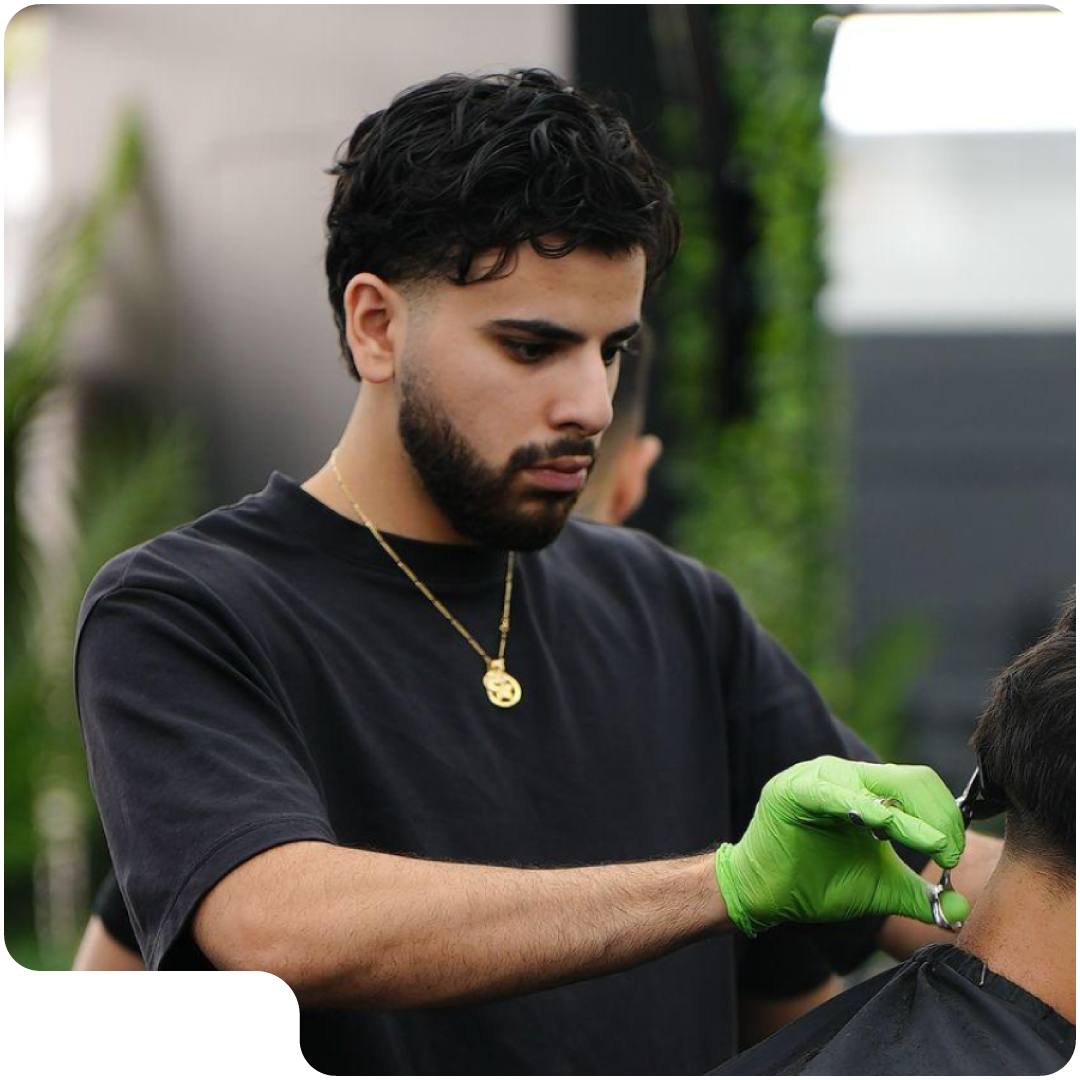
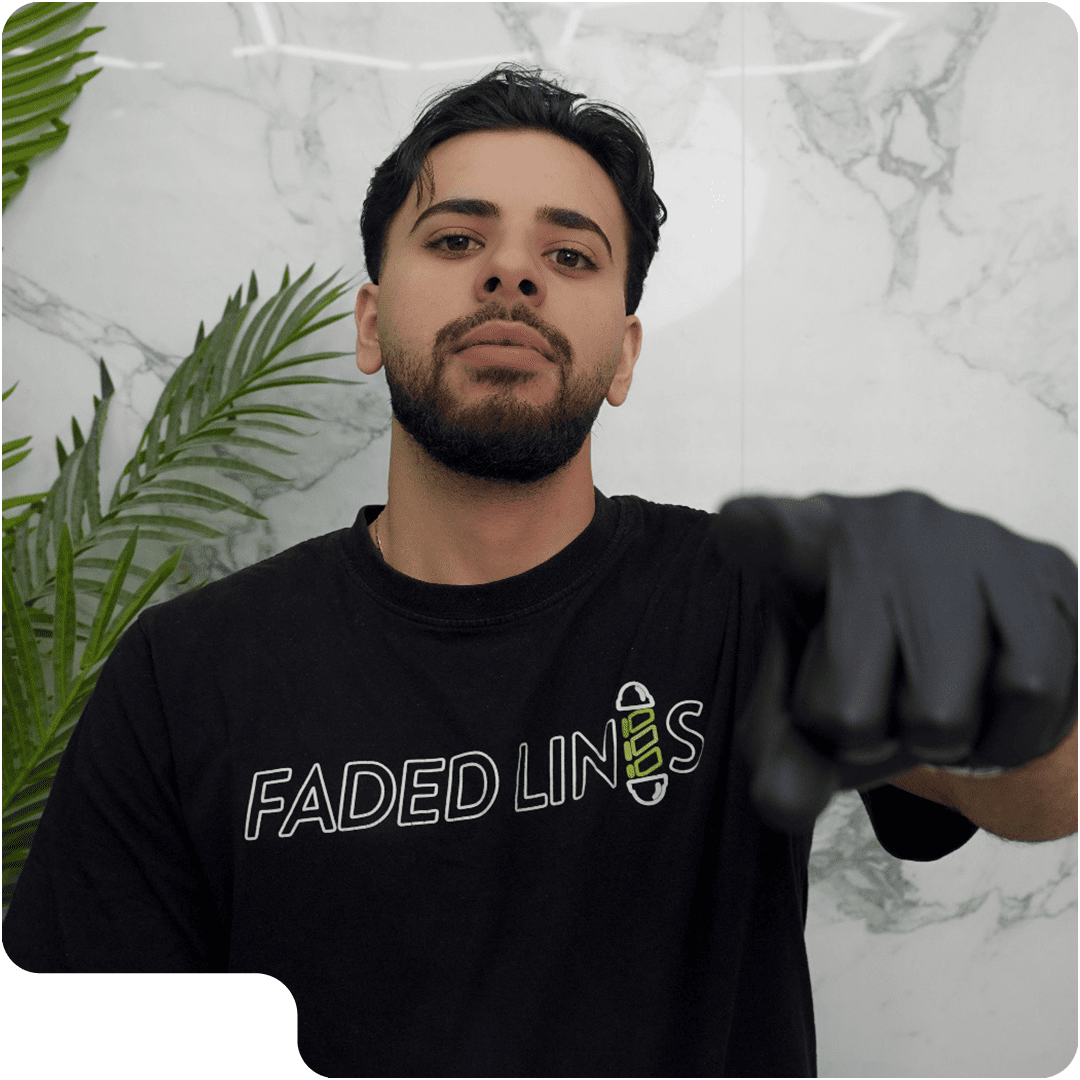
change barber photos amir

diff --git a/src/pages/web/Home.tsx b/src/pages/web/Home.tsx
@@ -17,7 +17,6 @@ import Amir from "@/assets/web/barbers/amir.png";
 import Rayhan from "@/assets/web/barbers/rayhan.png";
 import Jay from "@/assets/web/barbers/jay.png";
 import Emman from "@/assets/web/barbers/emman.png";
-import Josh from "@/assets/web/barbers/josh.png";
 import Niko from "@/assets/web/barbers/niko.png";
 import Noah from "@/assets/web/barbers/noah.png";
 import Lucas from "@/assets/web/barbers/lucas.png";
@@ -28,7 +27,6 @@ import AmirGallery from "@/assets/web/barbers/barbers-gallery/amir.png";
 import RayhanGallery from "@/assets/web/barbers/barbers-gallery/rayhan.png";
 import JayGallery from "@/assets/web/barbers/barbers-gallery/jay.png";
 import EmmanGallery from "@/assets/web/barbers/barbers-gallery/emman.png";
-import JoshGallery from "@/assets/web/barbers/barbers-gallery/josh.png";
 import NikoGallery from "@/assets/web/barbers/barbers-gallery/niko.png";
 import NoahGallery from "@/assets/web/barbers/barbers-gallery/noah.png";
 import LucasGallery from "@/assets/web/barbers/barbers-gallery/lucas.png";
@@ -43,8 +41,6 @@ import CanCTA from "@/assets/web/barbers/cta-button/can.svg";
 import CanCTAHover from "@/assets/web/barbers/cta-button/can-hover.svg";
 import RayhanCTA from "@/assets/web/barbers/cta-button/rayhan.svg";
 import RayhanCTAHover from "@/assets/web/barbers/cta-button/rayhan-hover.svg";
-import JoshCTA from "@/assets/web/barbers/cta-button/josh.svg";
-import JoshCTAHover from "@/assets/web/barbers/cta-button/josh-hover.svg";
 import NoahCTA from "@/assets/web/barbers/cta-button/noah.svg";
 import NoahCTAHover from "@/assets/web/barbers/cta-button/noah-hover.svg";
 import JayCTA from "@/assets/web/barbers/cta-button/jay.svg";
@@ -220,12 +216,6 @@ export default function Home() {
       landing: true,
     },
     {
-      svg: Josh,
-      thumbnail: JoshGallery,
-      link: generateRoute("/josh"),
-      landing: true,
-    },
-    {
       svg: Emman,
       thumbnail: EmmanGallery,
       link: generateRoute("/emman"),
@@ -247,9 +237,8 @@ export default function Home() {
     { normal: RayhanCTA, hover: RayhanCTAHover },  // 3: Rayhan
     { normal: JayCTA, hover: JayCTAHover },        // 4: Jay
     { normal: AmirCTA, hover: AmirCTAHover },      // 5: Amir
-    { normal: JoshCTA, hover: JoshCTAHover },      // 6: Josh
-    { normal: EmmanCTA, hover: EmmanCTAHover },    // 7: Emman
-    { normal: NikoCTA, hover: NikoCTAHover },      // 8: Niko
+    { normal: EmmanCTA, hover: EmmanCTAHover },    // 6: Emman
+    { normal: NikoCTA, hover: NikoCTAHover },      // 7: Niko
   ];
 
   // Transform barberSvgs into gallery-friendly format

diff --git a/src/components/book/BookList.tsx b/src/components/book/BookList.tsx
@@ -19,10 +19,9 @@ import Jay from "@/assets/web/barbers/booking-list/jay-book.svg";
 import Wyatt from "@/assets/web/barbers/booking-list/wyatt-book.svg";
 import Emman from "@/assets/web/barbers/booking-list/emman-book.svg";
 import Christos from "@/assets/web/barbers/booking-list/christos-book.svg";
-import Josh from "@/assets/web/barbers/booking-list/josh-book.jpg";
 import Niko from "@/assets/web/barbers/booking-list/niko-book.svg";
 import Noah from "@/assets/web/barbers/booking-list/noah-book.png";
-import Amir from "@/assets/web/barbers/booking-list/amir-book.svg";
+import Amir from "@/assets/web/barbers/booking-list/amir-book.png";
 import Jamie from "@/assets/web/barbers/booking-list/jamie-book.jpg";
 import Lucas from "@/assets/web/barbers/booking-list/lucas-book.jpg";
 import Can from "@/assets/web/barbers/booking-list/can-book.jpg";
@@ -39,7 +38,6 @@ const barberImages: { [key: string]: string } = {
   WYATT: Wyatt,
   EMMAN: Emman,
   CHRISTOS: Christos,
-  JOSH: Josh,
   NIKO: Niko,
   NOAH: Noah,
   AMIR: Amir,
@@ -74,13 +72,19 @@ const BookList = () => {
         "EMMAN",
         "NIKO",
         "ANTHONY",
-        "JOSH",
         "CHRISTOS",
         "WYATT",
       ];
 
-      // 1. Use all available profiles
-      let sortedProfiles = barbers?.team_member_booking_profiles ?? [];
+      const hiddenBarbers = ["JOSH"];
+
+      // 1. Use all available profiles, excluding hidden barbers
+      let sortedProfiles = (barbers?.team_member_booking_profiles ?? []).filter(
+        (profile) =>
+          !hiddenBarbers.some((name) =>
+            profile.display_name.toUpperCase().includes(name),
+          ),
+      );
 
       // 2. Filter for a specific barber if provided
       if (specificBarber && specificBarber !== "book") {
